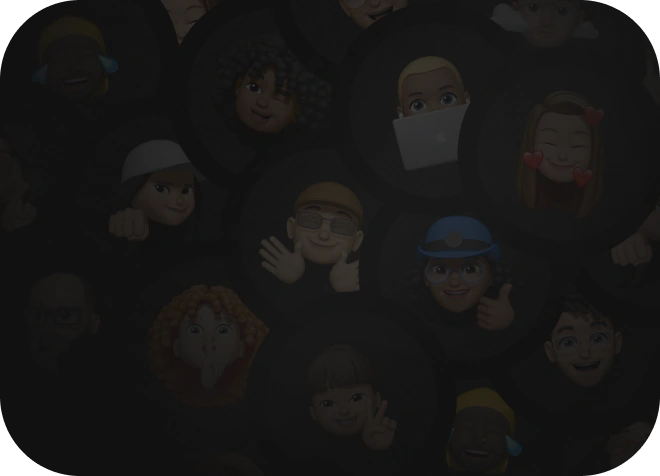
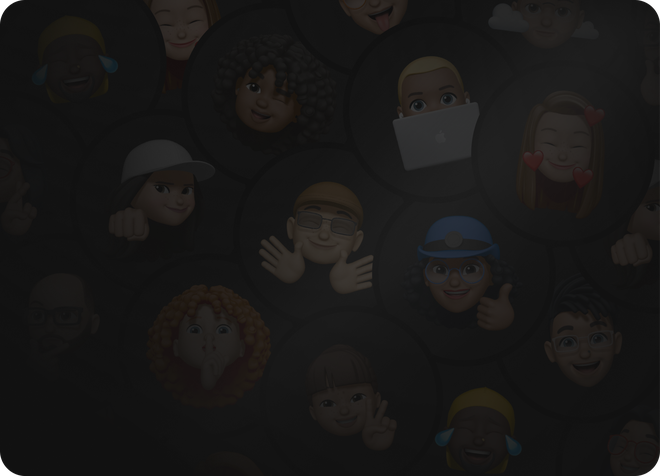
The phone 24/7 support card's art is re-cut lossless from its master
Per Žilvinas (2026-09-25, "it was pixelated"): the client's "24:7.png",
a 2091 x 1508 master at the card's own aspect, Lanczos down to the same
660 x 476 (4x the card) and shipped lossless. The 14 KB lossy cut it
replaces blocked visibly on the dimmed faces. 112 KB. Phone only.

diff --git a/src/components/TemplateSections.tsx b/src/components/TemplateSections.tsx
@@ -1817,7 +1817,11 @@ export function TemplatesInside() {
               "Need help?" bubble, so only the headline renders as text.
               PHONE has its own art (Žilvinas 2026-09-11): 660 x 476, exactly
               4x the 165 x 119 card, supplied already dimmed — so the 45%
-              black this card used to lay over the desktop art is gone. */}
+              black this card used to lay over the desktop art is gone.
+              RE-CUT 2026-09-25 (Žilvinas, "it was pixelated") from the
+              client's "24:7.png", a 2091 x 1508 master at the card's own
+              aspect, Lanczos down to the same 660 x 476 and LOSSLESS — the
+              14 KB lossy cut it replaces blocked on the dark faces. 112 KB. */}
           <article
             // THE DESKTOP ART IS THE SUPPLIED "24:7 background.png" (Žilvinas
             // 2026-09-19), a 3924 x 2780 master shipped as an 800-wide webp
